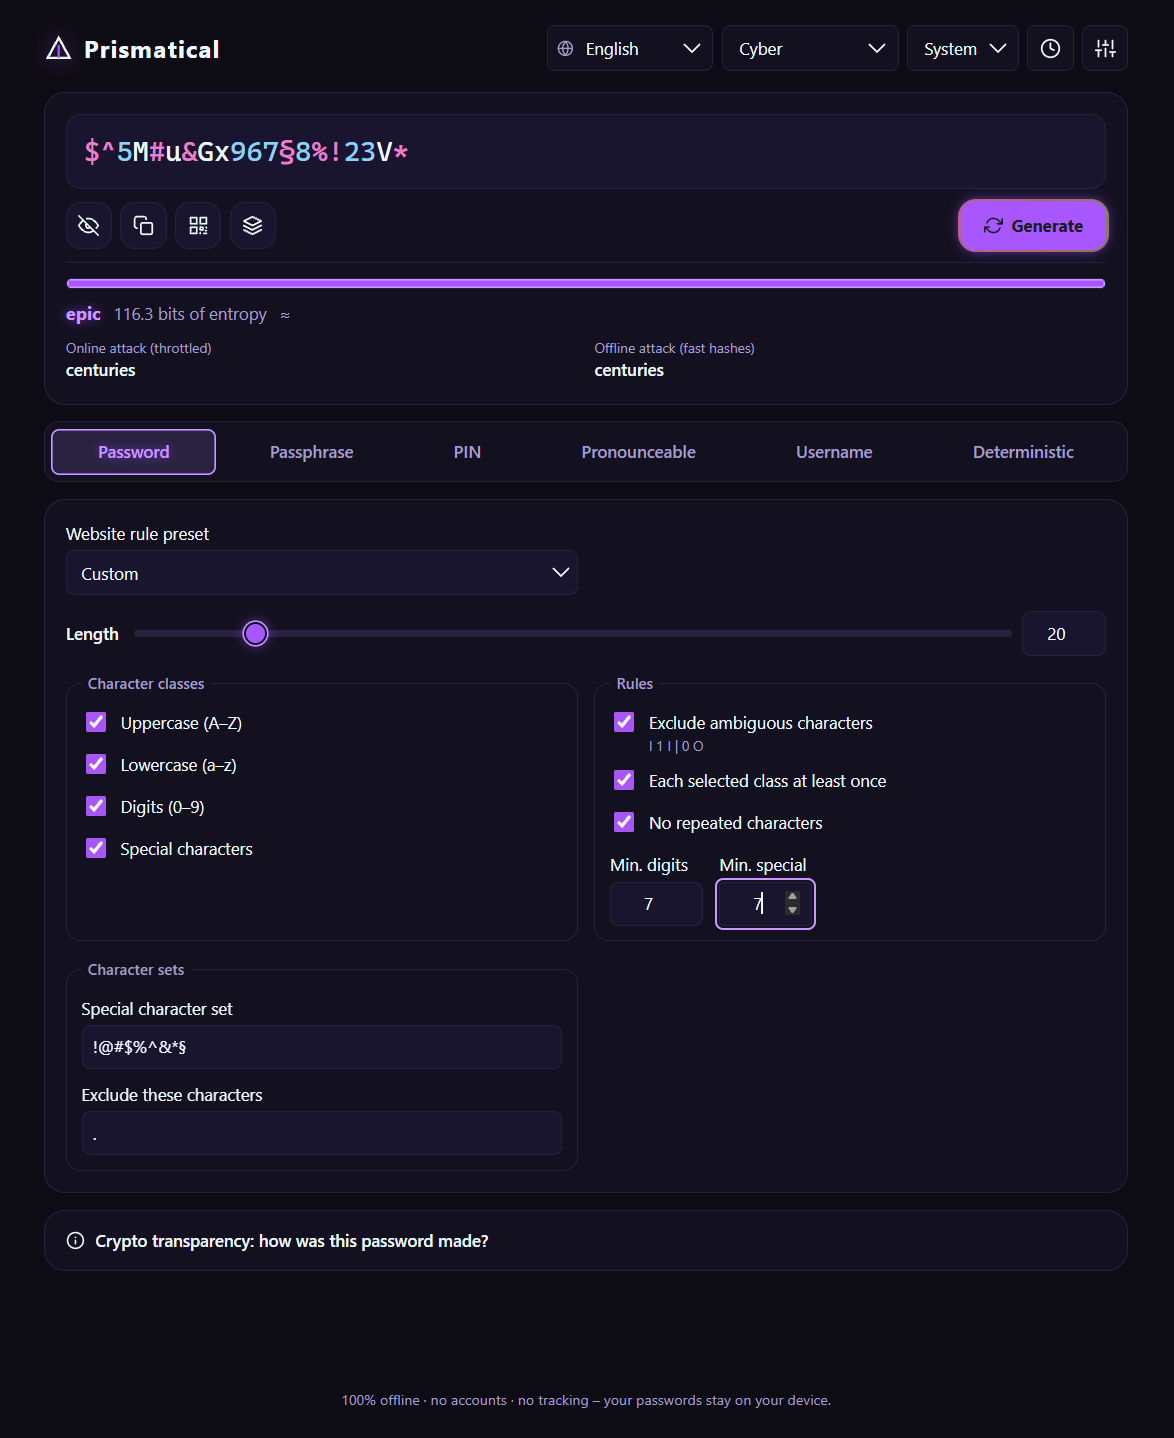
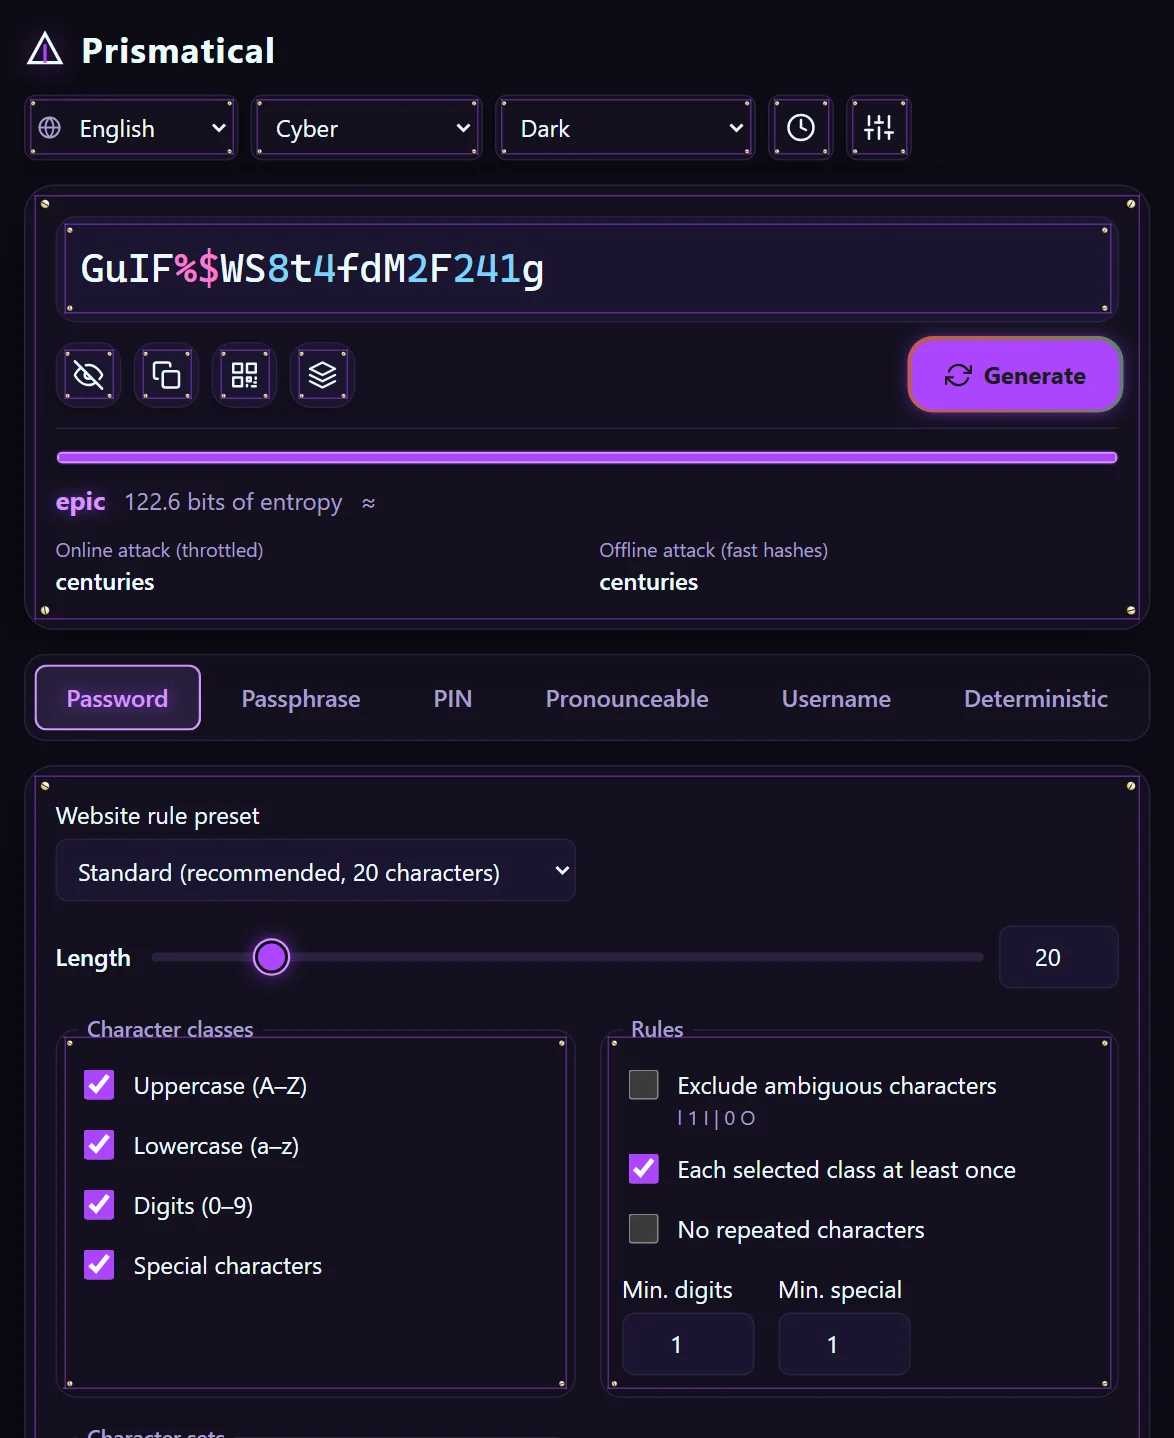
Bildschirmfotos im neuen Look neu aufgenommen

diff --git a/README.md b/README.md
@@ -7,7 +7,7 @@ Oberfläche IST die Stärke-Anzeige und wandert mit dem zxcvbn-Score von Rot
 (schwach) bis Violett (episch). Installierbare PWA für Handy und Desktop, nach
 dem ersten Besuch auch ohne Netz. 14 Sprachen, Standardsprache Deutsch.
 
-<img src="docs/screenshot-en.webp" alt="Prismatical im Theme Cyber: oben ein erzeugtes Passwort mit der höchsten Stärkestufe und 116 Bit Entropie, darunter die sechs Arten vom Passwort bis zum deterministischen Modus, Länge, Zeichenklassen und Regeln." width="420">
+<img src="docs/screenshot-en.webp" alt="Prismatical im Theme Cyber: oben ein erzeugtes Passwort mit der höchsten Stärkestufe und 122 Bit Entropie, darunter die sechs Arten vom Passwort bis zum deterministischen Modus, Länge, Zeichenklassen und Regeln." width="420">
 
 ## Sicherheitsprinzipien
 
